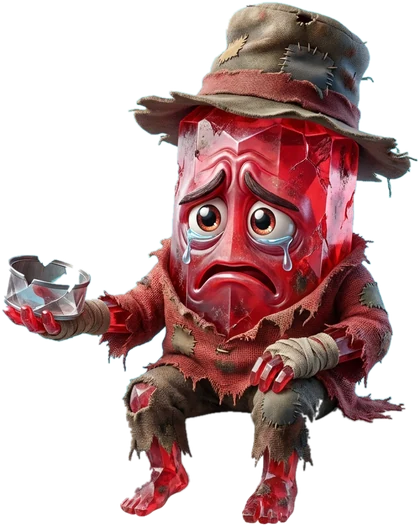
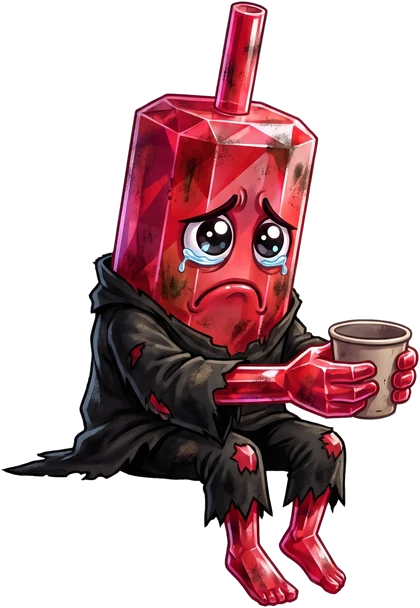
Nový žebrák na Starting, nový zelený panáček na M
Claude-Session: https://claude.ai/code/session_017NTkejaEJNNuxiLW1kjkT4

diff --git a/index.html b/index.html
@@ -18,7 +18,7 @@
   <link rel="preload" as="font" type="font/woff2" href="assets/fonts/archivo-latin-ext-standard-normal.woff2" crossorigin>
   <link rel="preload" as="image" href="assets/img/candle-green.webp?v=202610201838">
   <link rel="preload" as="image" href="assets/img/candle-red.webp?v=202610271830">
-  <link rel="stylesheet" href="assets/css/styles.css?v=202610271905">
+  <link rel="stylesheet" href="assets/css/styles.css?v=202610271920">
   <script>
     // Hide hero pieces until the intro animation takes over; fail open after 3.5 s.
     (function () {
@@ -194,7 +194,7 @@
           </div>
           <ul class="packs__track" id="packTrack">
             <li class="pack pack--beggar">
-                <img class="pack__mascot pack__mascot--beggar" src="assets/img/candle-beggar.webp?v=1" alt="" width="420" height="527" loading="lazy">
+                <img class="pack__mascot pack__mascot--beggar" src="assets/img/candle-beggar.webp?v=2" alt="" width="420" height="608" loading="lazy">
               <span class="pack__pile" aria-hidden="true"><img src="assets/img/packs/pile-starting.webp?v=3" alt="" style="--s:0.42" loading="lazy"></span>
                 <span class="pack__name">Starting</span>
               <span class="pack__coins"><i class="coin-ico" aria-hidden="true"></i>200</span>
@@ -209,7 +209,7 @@
               
             </li>
             <li class="pack pack--hot">
-                <img class="pack__mascot" src="assets/img/candle-sit.webp?v=1" alt="" width="420" height="626" loading="lazy">
+                <img class="pack__mascot" src="assets/img/candle-jump.webp?v=1" alt="" width="460" height="520" loading="lazy">
               <span class="pack__pile" aria-hidden="true"><img src="assets/img/packs/pile-m.webp?v=3" alt="" style="--s:0.64" loading="lazy"></span>
                 <span class="pack__name">M</span>
               <span class="pack__coins"><i class="coin-ico" aria-hidden="true"></i>4 000</span>

diff --git a/assets/css/styles.css b/assets/css/styles.css
@@ -2279,3 +2279,12 @@ main .rankwin p { color: inherit; }
 .pack--beggar { position: relative; }
 .pack__mascot--beggar { left: 58%; width: 130px; transform: translate(-50%, -76.5%); }
 @media (max-width: 600px) { .pack__mascot--beggar { width: 104px; left: 56%; } }
+/* v47 — new mascots: jumping green on M, beggar red inside Starting (in place of the pile) */
+.pack--hot .pack__mascot { left: 50%; width: 150px; transform: translate(-50%, -78.8%); }
+@media (prefers-reduced-motion: no-preference) { .pack--hot:hover .pack__mascot { transform: translate(-50%, -80%) rotate(-3deg); } }
+.pack--beggar .pack__pile { visibility: hidden; }
+.pack__mascot--beggar { left: 58%; top: -46px; width: 138px; transform: translate(-50%, 0); }
+@media (max-width: 600px) {
+  .pack--hot .pack__mascot { width: 124px; }
+  .pack__mascot--beggar { width: 120px; top: -34px; }
+}

diff --git a/README.md b/README.md
@@ -19,7 +19,7 @@ Lokální náhled: `python3 -m http.server` v kořeni repa a otevřít `http://l
 ## Struktura stránky (texty podle copy decku 10/2026 a úprav 25. 10. 2026)
 
 0. **Hero** — „Přečti graf. Poraz soupeře. Hraj o velké ceny.“ + úvod vlevo; vpravo contest banner v designu hry (záložky Daily/Weekly/Monthly, výherní bank, Live flip odpočet h:mm, CTA Vyzkoušet hru — částky PLACEHOLDER v `main.js`, `POOL`). Za panáčky slabý graf ze hry (`js/herochart.js`).
-1. **Odměny** (`#odmeny`, panel, který vyjede přes hero) — symboly coin → play → srdíčko → odměny → 3 odměny (`market: true`) + sloupec v mlze, kde poskakují `teasers` → nadpis „Hraj chytře. Sbírej srdíčka. Vyber si odměnu.“ + text vlevo, Coins (`#coins`) vpravo; pod tím samostatný blok (`#balicky`, místo kroků 01–04) carousel „Balíčky coins“ (Starting 200/29 Kč, S 1 250/129, M 4 000/349, L 10 000/749, XL 20 000/1 249, XXL 35 000/1 899 — natvrdo v `index.html`; na kartě M sedí zelený panáček `img/candle-sit.webp`; hromádky `img/packs/pile-*.webp`, velikost přes `--s`).
+1. **Odměny** (`#odmeny`, panel, který vyjede přes hero) — symboly coin → play → srdíčko → odměny → 3 odměny (`market: true`) + sloupec v mlze, kde poskakují `teasers` → nadpis „Hraj chytře. Sbírej srdíčka. Vyber si odměnu.“ + text vlevo, Coins (`#coins`) vpravo; pod tím samostatný blok (`#balicky`, místo kroků 01–04) carousel „Balíčky coins“ (Starting 200/29 Kč, S 1 250/129, M 4 000/349, L 10 000/749, XL 20 000/1 249, XXL 35 000/1 899 — natvrdo v `index.html`; na kartě M sedí zelený panáček `img/candle-jump.webp`, na kartě Starting žebrák `img/candle-beggar.webp`; hromádky `img/packs/pile-*.webp`, velikost přes `--s`).
 3. **Ranky** (`#play`) — „Každý rank, jiná hra.“ vlevo, vpravo karta Ranks se řádkem pro každý rank F → G.O.A.T. (bez čísel vstupu/výhry).
 4. **Žebříček · Academy · Herní statistiky · Contesty** (`#contesty`: `#rank`, `#academy`, `#statistika`) — čtyři karty; ukázky jsou v UI hry (žebříček jako obrazovka Ranks, se srdíčky).
 4b. **O Clash of Candles** (`#o-nas`) — „Clash of Candles je soutěžní hra…“
